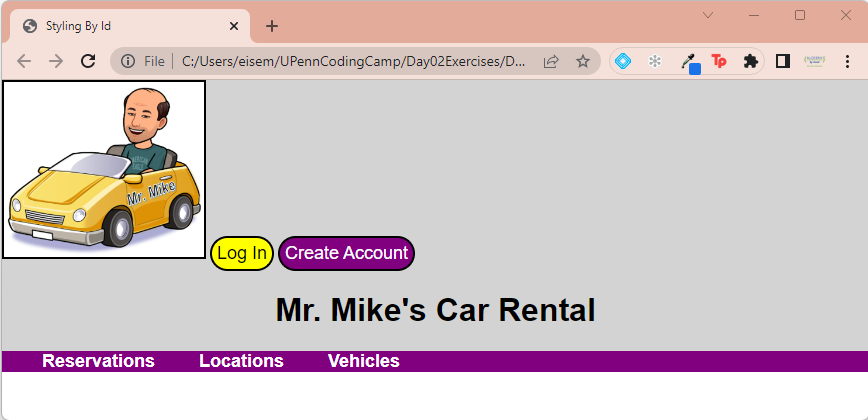
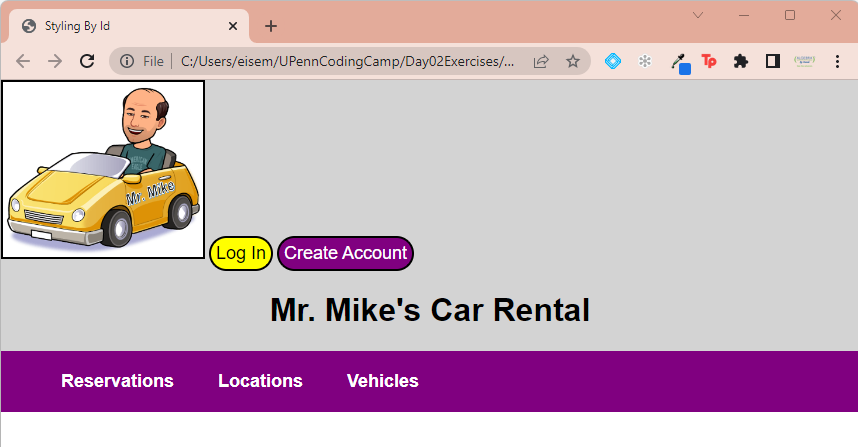
modify exercises

Changed region(s): [[0.0, 0.0, 1.0, 0.9286], [0.9091, 0.031, 0.9394, 0.0619], [0.0, 0.9905, 0.0303, 1.0]]

diff --git a/Day02Exercises/Day02_Exercise06_Museum_Website/MuseumWebSiteSolution/MuseumWebsite.css b/Day02Exercises/Day02_Exercise06_Museum_Website/MuseumWebSiteSolution/MuseumWebsite.css
@@ -12,16 +12,13 @@ body {
     width: 200px;
 }
 #navBar {
-    height: 40px;
     width: 100%;
     background-color: darkslategray;
+    padding-top: 20px;
+    padding-bottom: 20px
 }
 .center {
     margin: auto
-}
-#spacer {
-    height: 10px;
-    width: 100%;
 }
 .navItem {
     color: white;
@@ -43,7 +40,6 @@ a, a:visited{
     width: 100%
 }
 .caption {
-
     font-size: 24px;
 }
 .input {

diff --git a/Day02Exercises/Day02_Exercise06_Museum_Website/MuseumWebSite/MuseumWebsite.html b/Day02Exercises/Day02_Exercise06_Museum_Website/MuseumWebSite/MuseumWebsite.html
@@ -11,7 +11,6 @@
     <div class="container">
         <img id="logo" src="Our Tiny Museum Logo2.gif" alt="Our Tiny Museum Spinning Logo">
         <div id="navBar">
-            <div id="spacer"></div>
             <span class="navItem">LOCATION</span>
             <span class="navItem">HOURS</span>
             <span class="navItem">COLLECTION</span>

diff --git a/Day02Exercises/Day02_Exercise06_Museum_Website/MuseumWebSiteSolution/MuseumWebsite.html b/Day02Exercises/Day02_Exercise06_Museum_Website/MuseumWebSiteSolution/MuseumWebsite.html
@@ -11,7 +11,6 @@
     <div class="container">
         <img id="logo" src="Our Tiny Museum Logo2.gif" alt="Our Tiny Museum Spinning Logo">
         <div id="navBar">
-            <div id="spacer"></div>
             <span class="navItem">LOCATION</span>
             <span class="navItem">HOURS</span>
             <span class="navItem">COLLECTION</span>

diff --git a/Day02Exercises/Day02_Exercise06_Museum_Website/MuseumWebSite/MuseumWebsite.css b/Day02Exercises/Day02_Exercise06_Museum_Website/MuseumWebSite/MuseumWebsite.css
@@ -2,13 +2,7 @@ body {
     margin: 0px;
 }
 
-#spacer {
-    height: 10px;
-    width: 100%;
-}
-
 a, a:visited{
-    text-decoration: none;
     color:white
 }
 .artWorkContainer {

diff --git a/Day02Exercises/Day02_Exercise04_Styling_By_Id/StylingByIdSolution/StylingById.css b/Day02Exercises/Day02_Exercise04_Styling_By_Id/StylingByIdSolution/StylingById.css
@@ -31,6 +31,7 @@ h1 {
 #navigation {
     width: 100%;
     background-color: purple;
+    padding: 20px
 }
 span {
     color: white;
